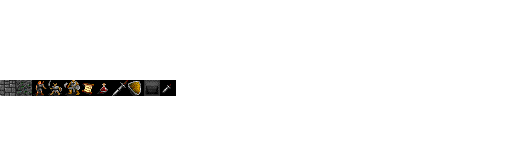
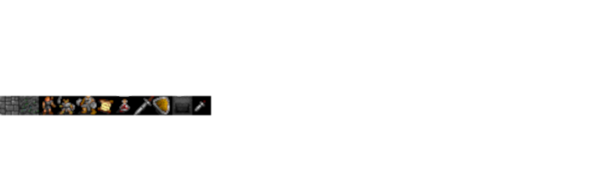
Update font rendering for tiled fonts

Changed region(s): [[0.0, 0.4688, 0.3438, 0.625]]

diff --git a/src/engine.c b/src/engine.c
@@ -57,18 +57,20 @@ struct engine *mkengine(int w, int h, const char *title)
 
     TCOD_console_init_root(w, h, title, false, TCOD_RENDERER_SDL);
     struct engine *engine = malloc(sizeof *engine);
+    int a = 256;
+    int fonts_in_row = 32;
+
     TCOD_console_set_custom_font(
         "TiledFont.png",
         TCOD_FONT_TYPE_GREYSCALE  | TCOD_FONT_LAYOUT_TCOD,
-        32,
+        fonts_in_row,
         10
     );
-    int a = 256;
 
     // The "y" is the row index, here we load the sixth row in the font file. Increase the "6" to load any new rows from the file
     for (int y = 5; y < 6; y++) {
-        TCOD_console_map_ascii_codes_to_font(a, 32, 0, y);
-        a += 32;
+        TCOD_console_map_ascii_codes_to_font(a, fonts_in_row, 0, y);
+        a += fonts_in_row;
     }
 
     TCOD_console_set_default_background(NULL, TCOD_light_grey);
